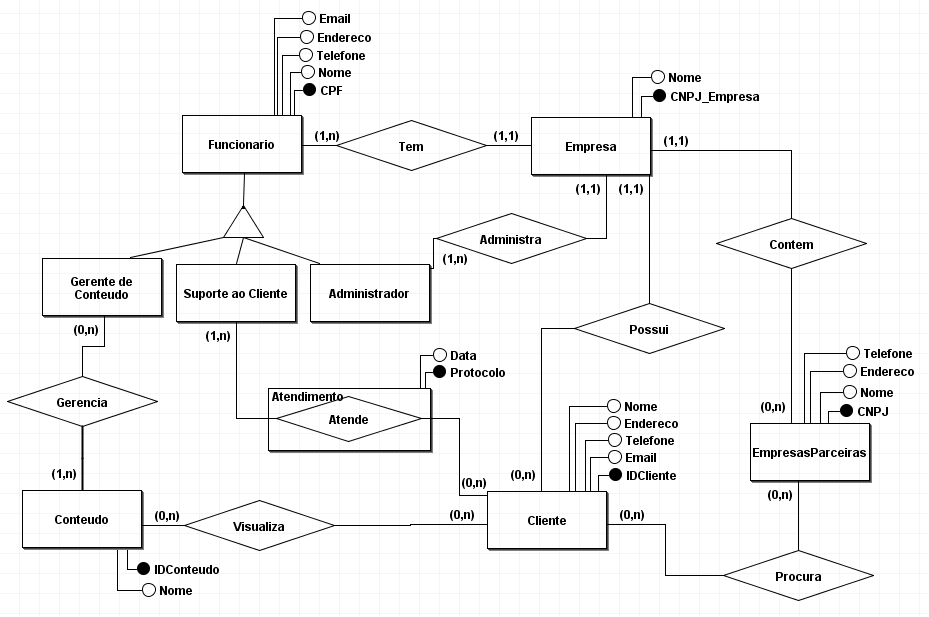
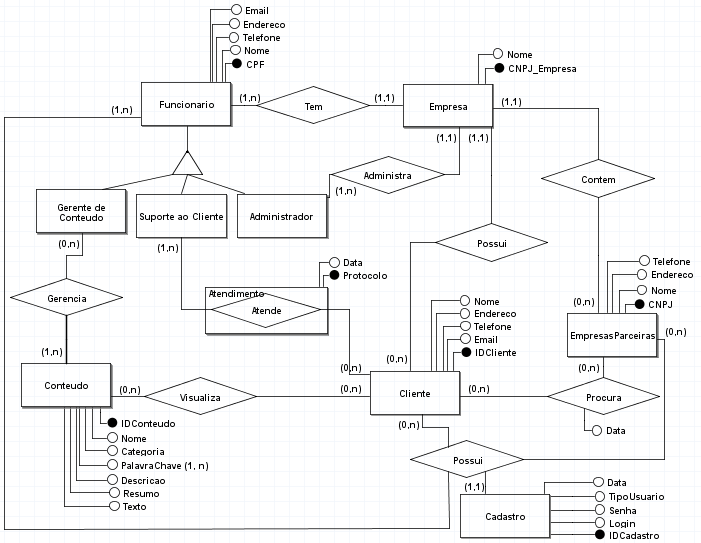
Atualizando Banco de Dados e Planejamento atual

diff --git a/docs/5-Planejamento-Projeto.md b/docs/5-Planejamento-Projeto.md
@@ -56,19 +56,25 @@ Atualizado em: 02/11/2024
 
 ## Sprint 4
 
-Atualizado em: 08/11/2024
+Atualizado em: 29/11/2024
 
 | Responsável   | Tarefa/Requisito | Iniciado em    | Prazo      | Status | Terminado em    |
 | :----         |    :----         |      :----:    | :----:     | :----: | :----:          |
-| Isaque        | Edição da documentação no GitHub        | 01/11/2024     | 06/12/2024 | 📝    |       |
-| Isaque        | Planejamento do Projeto        | 01/11/2024     | 02/11/2024 | ✔    | 02/11/2024      |
-| Maria        | Resumo do Projeto da Solução    | 01/11/2024     | 08/11/2024 | ✔    | 08/11/2024       |
-| Maria        | Público Alvo    | 01/11/2024     | 08/11/2024 | ✔    | 08/11/2024                |
-| Robson        | Requisitos Funcionais  | 01/11/2024     | 08/11/2024 | ✔     |  08/11/2024               |
-| Robson        | Personas  | 01/11/2024     | 08/11/2024 | ✔     | 08/11/2024                |
-| Gabriel        | Historias de Usuário |  01/11/2024    | 08/11/2024 |✔    | 08/11/2024      |
-| Gabriel        | Restrições  |  01/11/2024    | 08/11/2024 | 📝    |       |
-| Lucas        | Requisitos Não Funcionais  |  01/11/2024    | 08/11/2024 | ✔    | 06/11/2024       |
+| Isaque        | Edição da documentação no GitHub        | 01/11/2024     | 29/12/2024 | 📝    |       |
+| Isaque        | Planejamento do Projeto        | 01/11/2024     | 29/11/2024 | ✔    | 02/11/2024      |
+| Isaque        | Atualização Banco de Dados        | 22/11/2024     | 29/12/2024 | ✔    | 29/11/2024      |
+| Maria        | Resumo do Projeto da Solução    | 01/11/2024     | 29/11/2024 | ✔    | 08/11/2024       |
+| Maria        | Público Alvo    | 01/11/2024     | 29/11/2024 | ✔    | 08/11/2024                |
+| Robson        | Requisitos Funcionais  | 01/11/2024     | 29/11/2024 | ✔     |  08/11/2024               |
+| Robson        | Personas  | 01/11/2024     | 29/11/2024 | ✔     | 08/11/2024                |
+| Gabriel        | Historias de Usuário |  01/11/2024    | 29/11/2024 |✔    | 08/11/2024      |
+| Gabriel        | Restrições  |  01/11/2024    | 29/11/2024 | 📝    |       |
+| Lucas        | Requisitos Não Funcionais  |  22/11/2024    | 29/11/2024 | ✔    | 06/11/2024       |
+| Isaque        | Criação de um indicador        | 22/11/2024     | 29/12/2024 | ✔    | 29/11/2024      |
+| Maria        | Criação de um indicador        | 22/11/2024     | 29/12/2024 | 📝    |       |
+| Robson        | Criação de um indicador        | 22/11/2024     | 29/12/2024 | 📝    |       |
+| Gabriel        | Criação de um indicador        | 22/11/2024     | 29/12/2024 | ✔    | 29/11/2024      |
+| Lucas        | Criação de um indicador        | 22/11/2024     | 29/12/2024 | 📝    |       |
 
 Legenda:
 - ✔: terminado

diff --git a/docs/6-Interface-Sistema.md b/docs/6-Interface-Sistema.md
@@ -1,8 +1,6 @@
 
 # 6. Interface do Sistema
 
-<span style="color:red">Pré-requisitos: <a href="4-Projeto-Solucao.md"> Projeto da Solução</a></span>
-
 _Visão geral da interação do usuário por meio das telas do sistema. Apresente as principais interfaces da plataforma._
 
 ## 6.1. Tela principal do sistema
@@ -36,7 +34,7 @@ Tela do formulário de entrega de feedback que o usuário irá preencher e envia
 
 Tela do formulário de cadastro de empresas parceiras que será preenchido e enviado
 
-[`Telas da Atividade 1 e  2`](images/PrototipoTelas/EntregaFeedback.jpeg)
+[`Telas da Atividade 1 e  2`](images/PrototipoTelas/CadastroEmpresaParceira.jpeg)
 
 ## 6.5 Telas do processo 4 - Consulta de Empresas e Serviços de Energia Solar
 
@@ -47,23 +45,5 @@ Tela do formulário de busca por empresas parceiras que o usuário irá acessar 
 Tela da lista de recomendações recebida pelo usuário após preencher o formulário
 
 [`Tela das Atividades 4`](images/PrototipoTelas/ListaRecomendacao.jpeg)
-
-## 6.6 Telas do Banco de Dados
-
-Tela para manipulação, remoção e observação da tabela Clientes no banco de Dados
-
-[`Tela dos Clientes`](images/Admin_Clientes.png)
-
-Tela para a criação de um novo cliente
-
-[`Tela de Adição de um Cliente`](images/Admin_AdicionarClientes.png)
-
-Tela para manipulação, remoção e observação da tabela Conteúdos no banco de Dados
-
-[`Tela dos Conteúdos`](images/Admin_GerenciarConteudo.png)
-
-Tela para a crição de um novo conteúdo no site
-
-[`Tela de Criação de Conteúdo`](images/Admin_CriarConteudo.png)
 
 
